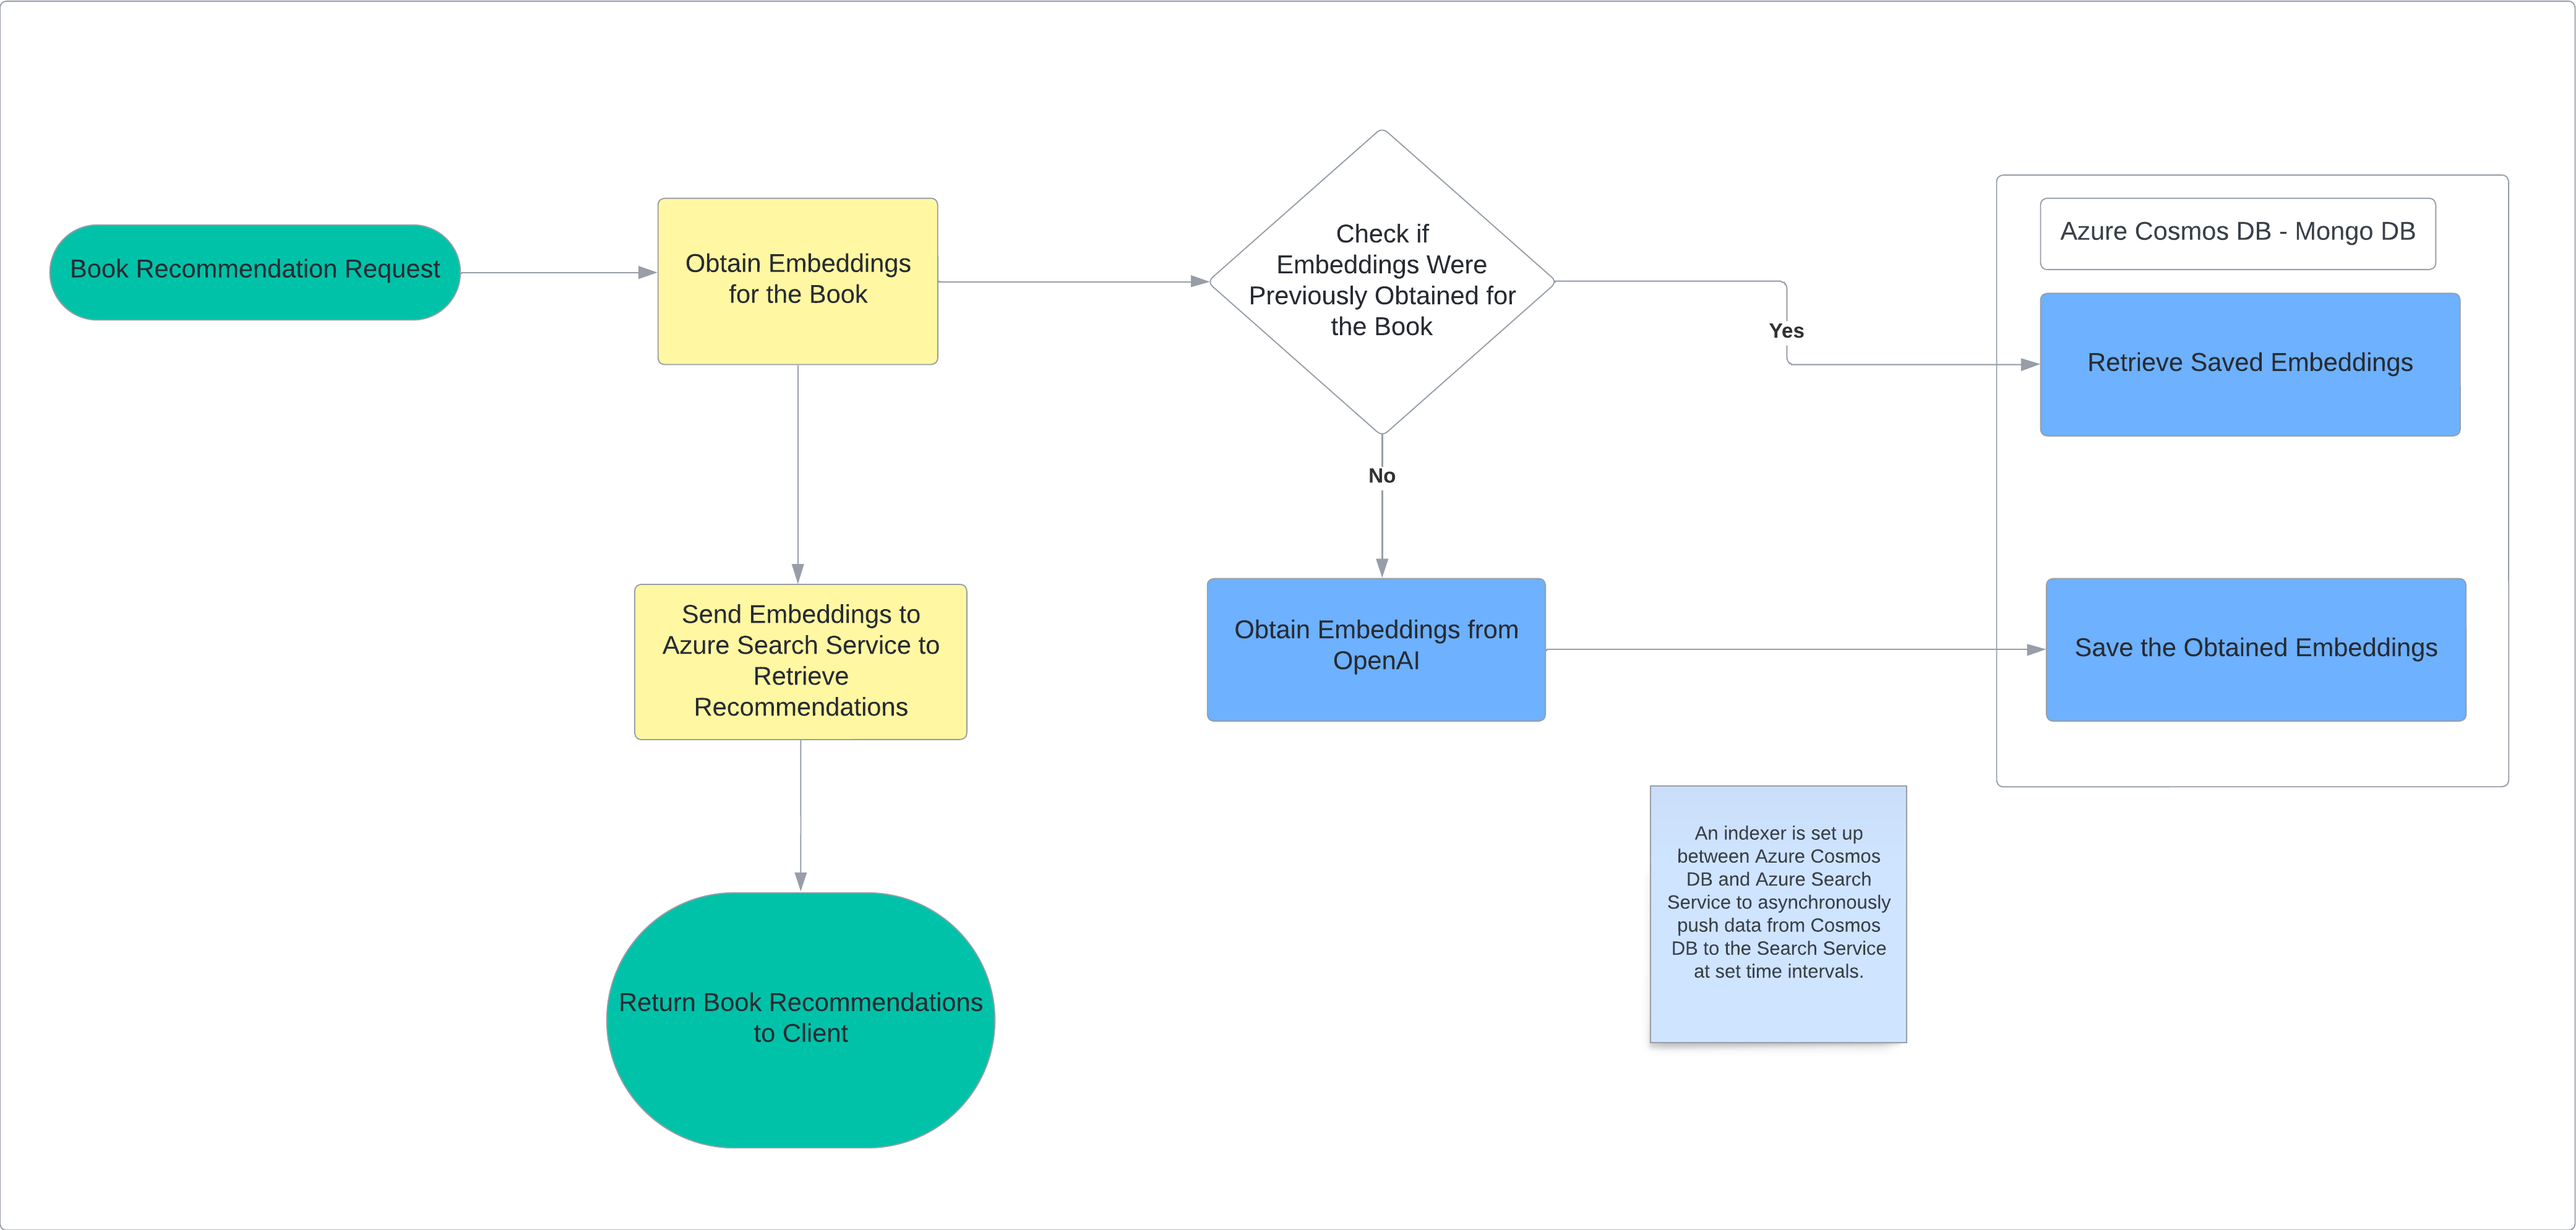
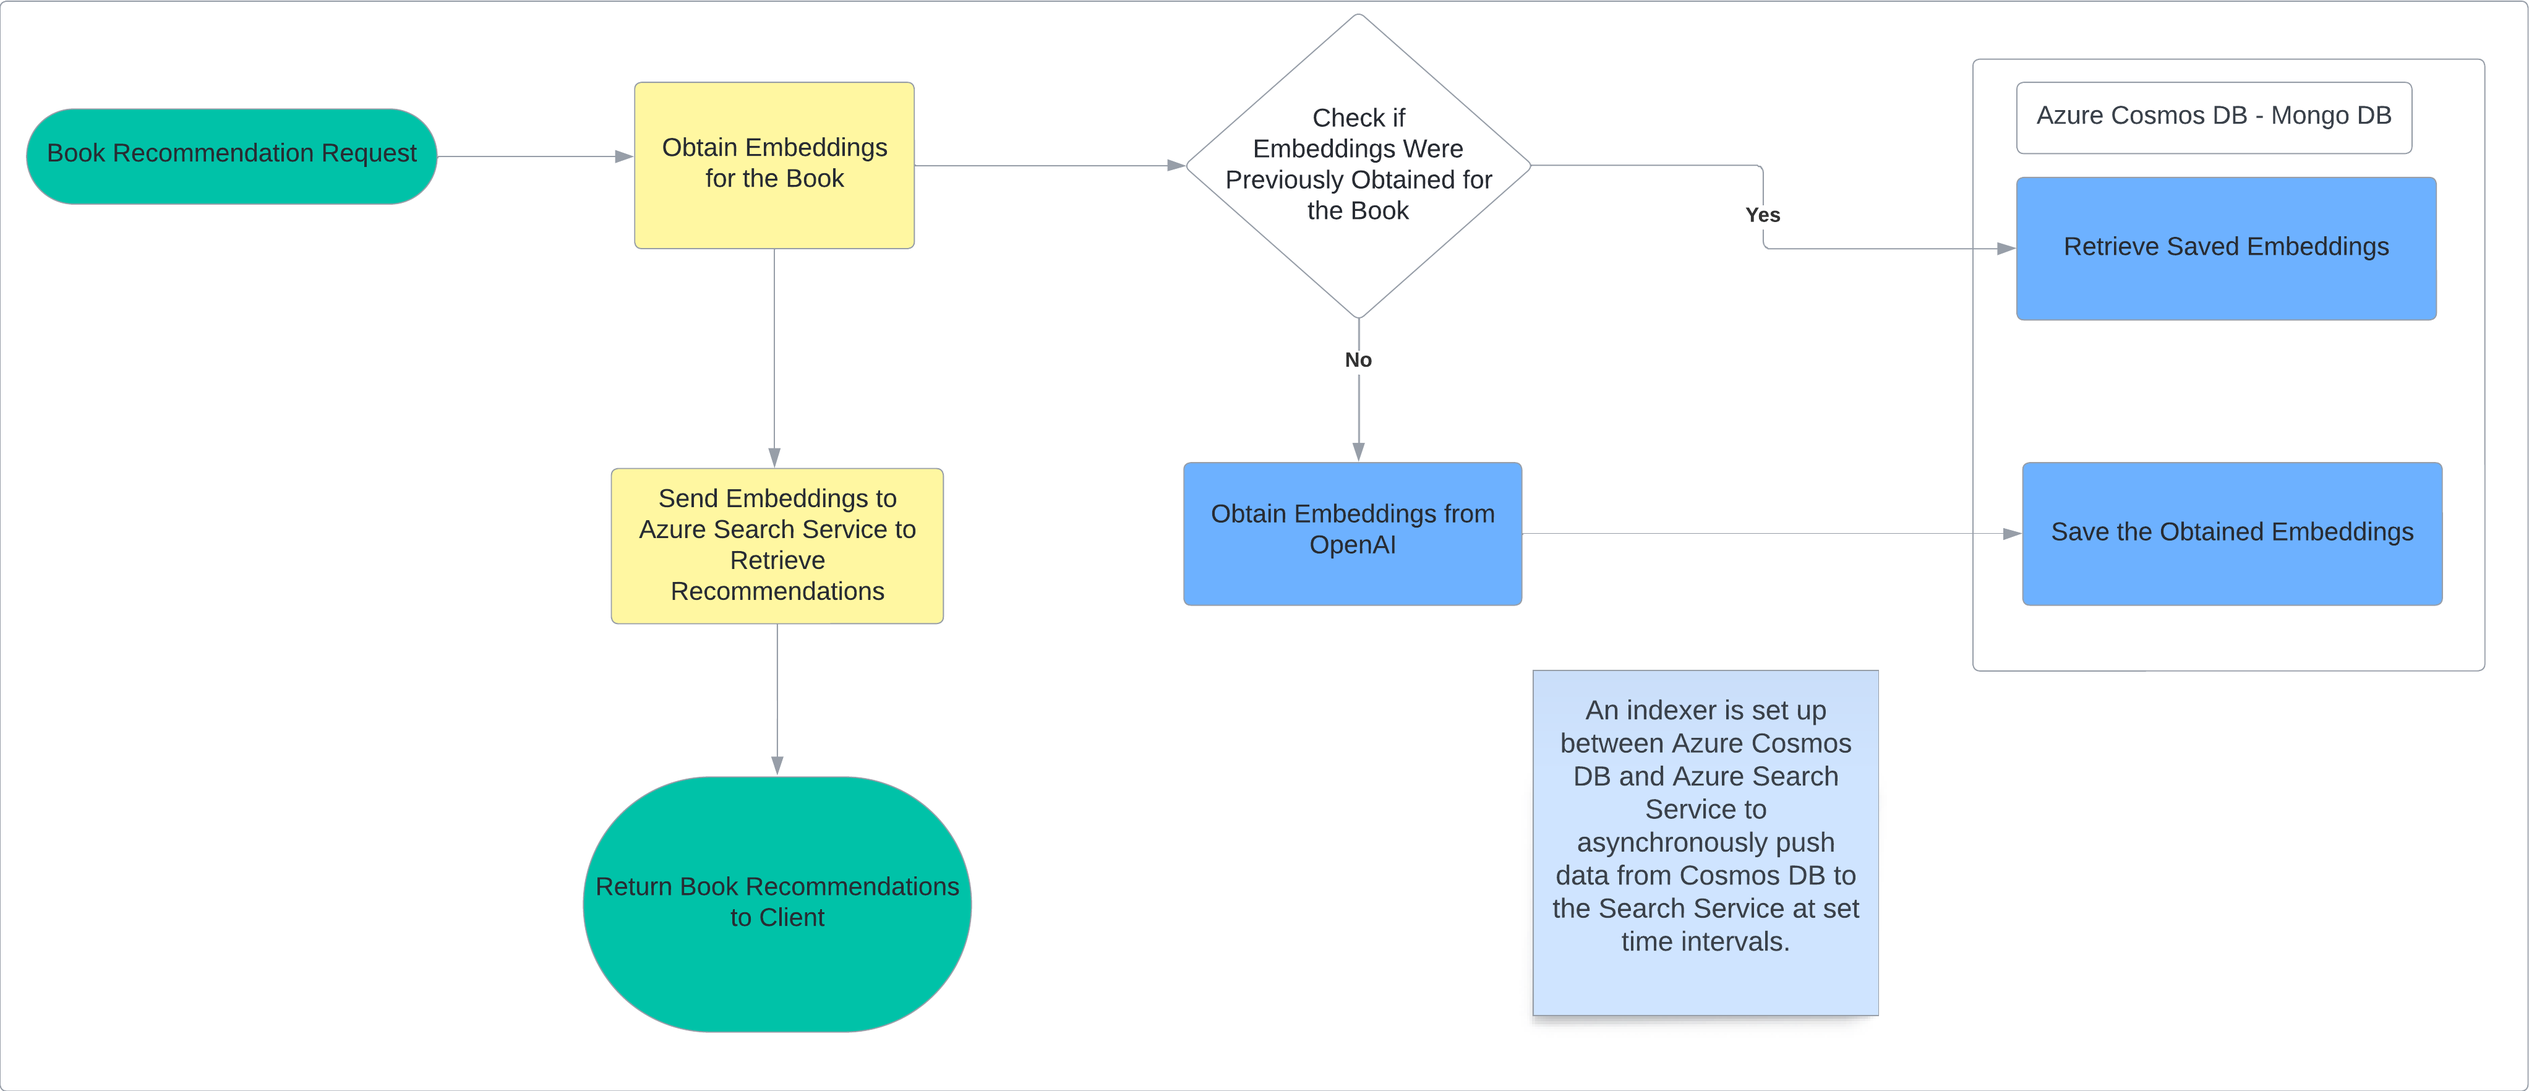
Update image sizing in Readme
Adjusted the dimensions of the workflow diagram in the Readme file to improve readability. Changed the width attribute of the embedded image to 90% to better fit the page layout and enhance the viewing experience.

diff --git a/Readme.md b/Readme.md
@@ -11,4 +11,4 @@ This project serves as an extension to enhance the final year group project I wa
 - Implemented a new recommendations layer utilizing embeddings to identify similar items (books).
 - An overview of the process is illustrated in the workflow diagram below.
 
-<img src="./Images/Flowchart-Recommendations.png">
+<img src="./Images/Flowchart-Recommendations.png" width="90%">
